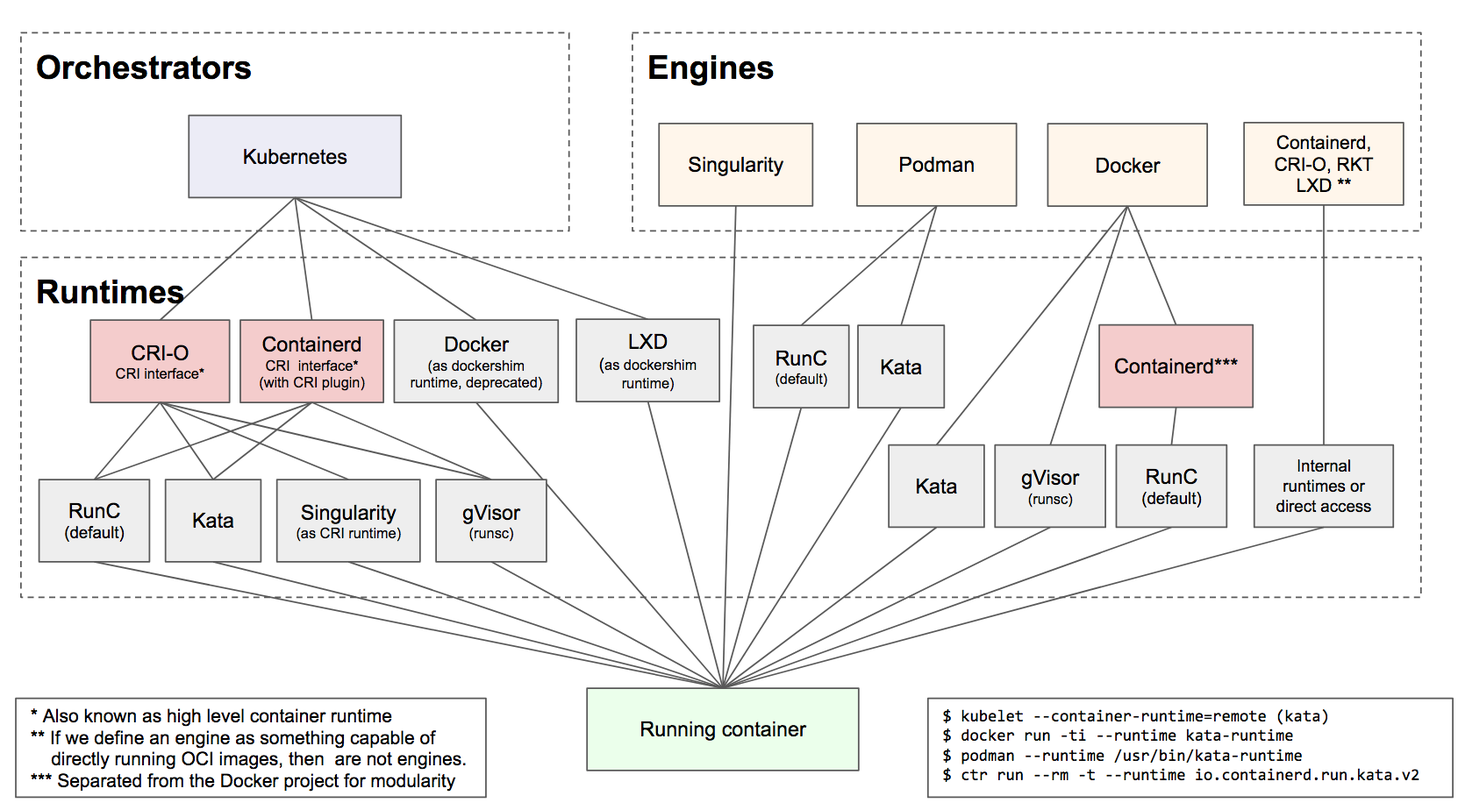
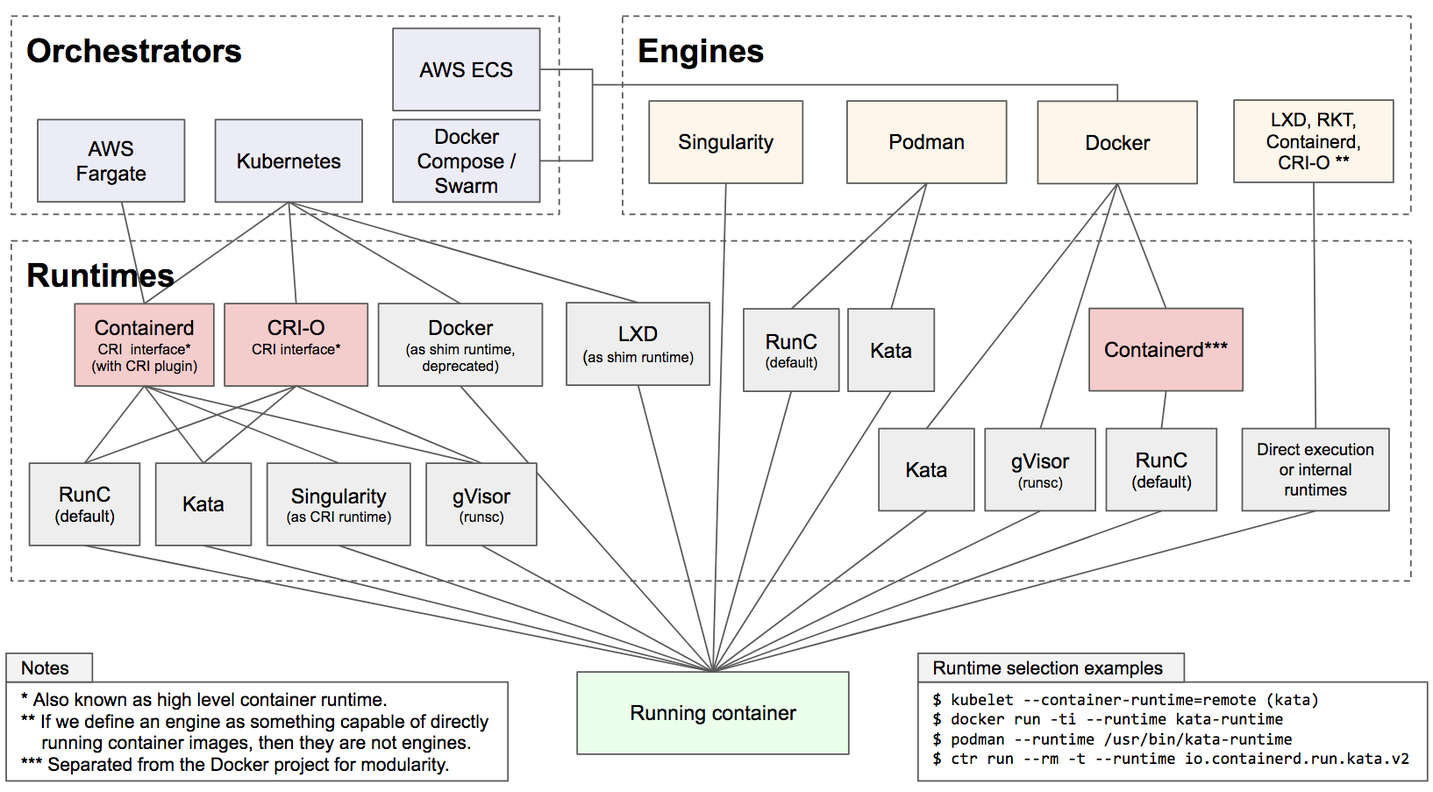
Updated containers blog article.

diff --git a/blog_container_orchestrators_engines_runtimes.html b/blog_container_orchestrators_engines_runtimes.html
@@ -68,7 +68,7 @@
         <div class="row">
           <div class="col-lg-12 text-center" style="padding-top:50px">
             <h3 class="section-heading" style="margin-top:20px; margin-bottom:20px">Container orchestrators, engines and runtimes: an overview</h3>
-            <h5 style="margin-bottom:30px">18 January 2022</h5>
+            <h5 style="margin-bottom:30px">7 February 2022</h5>
           </div>
         </div>
         <div class="row">
@@ -83,23 +83,37 @@
             
 
             <p>
-            Within the work I carried out ad INAF (the Italian National Institute for Astrophysics), where I developed a so called science plaform (<a href="https://www.ict.inaf.it/gitlab/exact/Rosetta">Rosetta</a>) to provide simplified access to complex computing and storage resourcer as HPC clusters and data-intensive systems, I had a chanche do deep dive in the container ecosystem.
+            As part of the work I am carrying out at INAF (the Italian National Institute for Astrophysics) on new approaches for data-intensive analysis, I am developing a so called <i>science platform</i>.
             </p>
-            <p>
-            The complexity is astonishing. And perhaprs as any complex technolgy simplified enough to get mass adoption, a lot of details are hid when you just run a <code>docker run hello-world</code> command.</p>
             
-            The schema below tries to summarize the situation as of today, and most importantly to clarify the relationships between the various moving parts.
+            <p>
+            The aim of such platforms is to provide simplified access to complex computing and storage resources, as HPC clusters and data-intensive systems, and to make it easy (and reproducible) to run scientific codes on them.
+            </p>
+            
+            <p>
+            The science platform we are developing at INAF (<a href="https://www.ict.inaf.it/gitlab/exact/Rosetta">Rosetta</a>) makes strong use of software containerisation to achieve this goal, and I therefore had the chance to take a deep dive in the container ecosystem.
+            </p>
+
+            <p>
+            The complexity is astonishing. And perhaps as any complex technology simplified enough to get mass adoption, a lot of details are hid when you just run a <code>docker run hello-world</code>.</p>
+            
+            The diagram below tries to summarise the situation as of today, and most importantly to clarify the relationships between the various moving parts.<br/><br/>
             
             <a href="imgs/containers.png"><img src="imgs/containers.png" width="100%"></a>
   
             <p>
             <br/>
-            A bunch of containers engines are not included, most notably 
-            <a href="https://nabla-containers.github.io">Nabla containers</a> and
-            <a href="https://github.com/NERSC/shifter">Shifter</a>.
+            Not all container orchestrators, engines and runtimes available as of today are included in this diagram nor discussed in this article, and most notably 
+            <a href="https://nabla-containers.github.io">Nabla</a>,
+            <a href="https://github.com/NERSC/shifter">Shifter</a>, <a href="https://www.nomadproject.io/">Nomad</a> and <a href="https://mesosphere.github.io/marathon/">Marathon</a> are not covered, but there should be enough of them to cover the various peculiarities in order to then generalise.</p>
             
-            Moreover, in the transition from standalone projects ad LXC/LCD and Docker to the open container initiative (OCI) standard, the terminology got even more convoluted, and the same components can behave as two different ones depending on how it is used. A set of definitions is therefore definitely required to navigate the ecosystem.
+            <p>
+            As it will be tried to explain over this article, in the transition from standalone, monolithic projects as LXC/LCD and Docker to the open container initiative (OCI) standards, the terminology got quite convoluted, and the same component can behave as two different ones, depending on how it is framed (e.g. an engine can became a runtime of another engine).
+            </p>
             
+            <p>
+            A set of definitions is therefore definitely required to navigate the ecosystem.
+            </p>
 
 
             <!-------------------> 
@@ -109,21 +123,20 @@
             <hr>        
             
             <ul>
-            <li>A container engine is a piece of software that accepts user requests, including command line options, pulls images, and from the end user's perspective runs the container [1]. 
+            <li>A <b><i>container engine</i></b> is a piece of software that accepts user requests, including command line options, pulls images, and from the end user's perspective runs the container [1]. 
             
-            <li>A container runtime is a software component which is in charge of managine the container lifecyle: configuring its environment, running it, stopping it, and so on. You can think about them as what's inside the engine (i.e valves and pistons). 
+            <li>A <b><i>container runtime</i></b> is a software component which is in charge of managing the container lifecycle: configuring its environment, running it, stopping it, and so on. You can think about them as what's inside the engine (i.e valves and pistons). 
             
-            Runtimes can be firther sub-divided in two types: hig lewel and low level.
+            Runtimes can be further sub-divided in two types: <i><b>high level</b></i>  and <i><b>low leve</b>l</i>.
             
             <ul style="margin-top:10px"> 
-            <li>high level container runtimes, or container runtime interfcaces (CRI). Following the engine analogy, you can think about them as the valves which in turn feeds the pistons.
-            <li>low level container runtimes, or CRI runtimes. You can think about them as the pistons which do the heavy lifting.
+            <li><b>high level</b> container runtimes, or container runtime interfaces (CRI). Following the engine analogy, you can think about them as the valves which in turn feeds the pistons.
+            <li><b>low level</b> container runtimes, or CRI runtimes. You can think about them as the pistons which do the heavy lifting.
             </ul>
-
             Also note that some engines can behave as runtimes and can be thus used from within other engines, or orchestrators.
 
 
-            <li>Lastly, a container orchestrator is a software in charghe of managing set of containers across different computing reosurces, handling network and storage configurations which are under the hood delegated to the container runtimes.
+            <li>Lastly, a <b><i>container orchestrator</i></b> is a software in charge of managing set of containers across different computing resources, handling network and storage configurations which are under the hood delegated to the container runtimes.
 
              
             </ul> 
@@ -131,10 +144,10 @@
             The general concept is thus as follows:
             </p>
             <p>
-            If you are running <b>single containers</b>, you will interact with a container engine, which in turn will interact with a container runtime. This leaving out the near-nonsense of engines that can behave as runtimes and thus used from within other engines, and that some engines have their runtime monolithically built-in, as Singularity.
+            If you are running <b><i>single containers</i></b>, you will interact with a <b>container engine</b>, which will in turn interact with a container runtime, either monolithically built-in or as a module. This leaving out the near-nonsense of engines that can behave as runtimes and that can thus be used from other engines.
             </p>
             <p>
-            If you are instead running <b>set of containers</b>, then you will use an orchestrator. Which one to use between Docker compose, Kubernetes, Docker swarm etc. depends on the use case and deployment complexity. Moreove, this is true if we leave out a new trend of building orchestrators on top of other orchestrators (i.e. Portainer), in which case the orchesrator will interact with another orchestrator.
+            If you are instead running <b><i>set of containers</i></b>, you will then use a <b>container orchestrator</b>. Which one to use will depend on the use case and deployment complexity. Moreover, this is true if we leave out a new trend of building orchestrators on top of other orchestrators (e.g. <a href="https://www.portainer.io/">Portainer</a>), in which case the orchestrator will interact with another orchestrator. Lastly, no one prevents you from using an orchestrator to run a set of containers with a single element, thus effectively running a single container, which is something you might want to do in particular in Cloud environments (e.g. in AWS ECS or Fargate).
             </p>
 
             <!-------------------> 
@@ -148,11 +161,11 @@
             <p>
             The container engine we all know.
             
-            Being a monoholitic project in the beginning, it has since then refactored to support both the need of an open source ecosystem and architectural flexibility. At different stages, the Docker GitHub repository was renamed in Mody and the internal, built-in runtime was extrapolated as Containerd.
+            Being a monolithic project in the beginning, it has since then refactored to support both the need of an open source ecosystem and architectural flexibility. At different stages, the Docker GitHub repository was renamed in Moby and the internal, built-in runtime was extrapolated as Containerd.
             </p>
             <p>
             
-            Docker identified indeed for a long time many things: a container engine, a runtimne, a registry, an image format, a project and.. a company. It is a normal part of software to get refactored, however with Docker and Kubernetes this generated a bit of confusion. As of today, the Docker Engine is to be intended as an open source software for Linux, while Docker Desktop is to be intended as the freemium product of the Docker, Inc. company for Mac and Windows platforms. From Docker's product page: "Docker Desktop includes Docker Engine, Docker CLI client, Docker Build/BuildKit, Docker Compose, Docker Content Trust, Kubernetes, Docker Scan, and Credential Helper". 
+            Docker identified indeed for a long time many things: a container engine, a runtime, a registry, an image format, a project and.. a company. It is a normal part of software projects to get refactored, however with Docker and Kubernetes this generated a bit of confusion. As of today, the Docker Engine is to be intended as an open source software for Linux, while Docker Desktop is to be intended as the freemium product of the Docker, Inc. company for Mac and Windows platforms. From Docker's product page: "Docker Desktop includes Docker Engine, Docker CLI client, Docker Build/BuildKit, Docker Compose, Docker Content Trust, Kubernetes, Docker Scan, and Credential Helper". 
             
             </p>
 
@@ -160,32 +173,38 @@
             <!--  Podman -->
             <h6 style="margin-top:20px">Podman</h6>
             <p>
-            Podman is a daemonless container engine for developing, managing, and running OCI Containers on your Linux System. Containers can either be run as root or in rootless mode. Podman is a near drop-in replacement for the Docker which can run container in <u>userspacea</u>.
+            Podman is a daemonless container engine for developing, managing, and running OCI Containers on your Linux System. Containers can either be run as root or in rootless mode. Podman is a near drop-in replacement for the Docker which can run container in <u>userspace</u>.
             
-            On shared sytems, it is probably the best possible tradeoff betwee usability and secutory, as it allows to operate both as root and standard user. Unlike other userspace container solutions, in Podman users can become root inside the container even if outside they are standard users, which makes it extremely powerful.
+            On shared systems, it is probably the best possible tradeoff between usability and security, as it allows to operate both as root and standard user. Unlike other userspace container solutions, in Podman users can become root inside the container even if outside they are standard users, which makes it extremely powerful.
             </p>
             <p>
             
-            Podman has a few issues with user IDs (UID) management when running when running in rootless mode and UIDs close to 65536. For example, to allow the advanced package tool (APT) to work on Debian/Ubuntu-based containers, its UID must be reassinged not to clash with some forbidden ones [4], e.g.: <code>groupadd -g 600 _apt</code> and <code>usermod -g 600 _apt</code>. Moreover, by default the user outside the container is mapped to root inside the container, and non-root user mapped to to other UIDs [5]. Take home message: a terrific piece of software, but beware UIDs.
+            Podman has a few issues with user IDs (UID) management when running when running in rootless mode and UIDs close to 65536. For example, to allow the advanced package tool (APT) to work on Debian/Ubuntu-based containers, its UID must be reassigned not to clash with some forbidden ones [4], e.g.: <code>groupadd -g 600 _apt</code> and <code>usermod -g 600 _apt</code>. Moreover, by default the user outside the container is mapped to root inside the container, and non-root user mapped to to other UIDs [5]. Take home message: a terrific piece of software, but beware UIDs.
             </p>
 
 
             <!--  Singularity -->
             <h6 style="margin-top:20px">Singularity</h6>
             <p>
-            Singularity (now Apptainer, because of you know... forks) is perhaps one of the worse container engine implementations around. It is actually to be thought of more as an environment than as a container engine. Its main problem is indeed that it does not enforce isolation between the containers and the host, levaing large portions exposed. This is not only a secutiry issue but most importantly it makes the container behavioiur susceptible of being affected by the host environmnent.
+            Singularity (now Apptainer, because of you know... forks) is perhaps one of the worse container engine implementations around. It is actually to be thought more of a virtual environment than as a container engine. Its main problem is indeed that it does not enforce (or even permit) robust isolation between the containers and the host, leaving large portions exposed. This is not only a security issue but most importantly it makes the container behaviour susceptible of being affected by the external environments. In the shipping container analogy, you can think about Singularty containers as if they have no walls. 
             
             <p>
-            Directories as the <code>/home</code> folder, <code>/tmp</code>, <code>/proc</code>, <code>/sys</code>, and <code>/dev</code> are all shared with the host, environment variables are exported as they are set on host, the PID namespace is not created from scratch, and the network and sockets are as well shared with the host.  Moreover, Singularity maps the user outside the continer as the same user inside it, meaning that every time a contaier is run the user UID (and name) will change inside it, making it very hard to handle permissions.
+            More in details, directories as the <code>/home</code> folder, <code>/tmp</code>, <code>/proc</code>, <code>/sys</code>, and <code>/dev</code> are all shared with the host, environment variables are exported as they are set on host, the PID namespace is not created from scratch, and the network and sockets are as well shared with the host.  Moreover, Singularity maps the user outside the container as the same user inside it, meaning that every time a container is run the user UID (and name) can change inside it, making it very hard to handle permissions.
             </p>
             
-            <p>Two issues opened on the former Singularity project are quite self-explainatory: <a href="https://github.com/apptainer/singularity/issues/476">Same container, different results</a> and <a href="https://github.com/apptainer/singularity/issues/3484">Python3 script fails in singularity container on one machine, but works in same container on another</a>. In both cases the iusse was due to lack between isolation between the container and the host.
+            <p>Two issues opened on the former Singularity project are quite self-explanatory: <a href="https://github.com/apptainer/singularity/issues/476">Same container, different results</a> and <a href="https://github.com/apptainer/singularity/issues/3484">Python3 script fails in singularity container on one machine, but works in same container on another</a>. In both cases the issue was due to lack of isolation between the container and the host.
             </p>
             <p>
-            Singularity is perhaps one of the most evident symphthoms of the "not invented here" syndrome in the HPC world, and after having to deal with it for more than two years, I am now officialy saying it out loud: stay away from it, unless you really have to.
+            Singularity is perhaps one of the most evident symptoms of the "not invented here" syndrome in the HPC world, and after having to deal with it for more than two years, I am now officially saying it out loud: stay away from it, unless you really have to.
             </p>
 
 
+            <!--  LXD etc. -->
+            <h6 style="margin-top:20px">LXD, RKD, Containerd, CRI-O</h6>
+            <p>
+            These are not exactly engines, and in particular if the definition fo an engine is something capable of directly running container images (from a user prospective), then they are definitely not. However, with a few caveats (as the Containerd CLI runtime, <code>ctr</code>) they can be used as engines too, and I thought it was worth to include them in the schema as engines to underline how potentially nearly everything can be framed as everything. The take home message is: beware definitions in the container ecosystems, they are kind of mutable.
+ 
+            </p>
 
             <!-------------------> 
             <!--  Runtimes (HL) -->
@@ -194,15 +213,15 @@
             <hr>
             
             <!-- Containerd -->
-            <h6 style="margin-top:20px">runC</h6>
+            <h6 style="margin-top:20px">Containerd</h6>
             <p>
-            Containerd is an high-level container originated from Docker, and decoupled for flexibility over the years. A defualt Docker engine installation will install containerd as well. Containerd is also the default Kubernetes runtime. Containerd uses runC as its default low-level runtime.
+            Containerd is an high-level container originated from Docker, and decoupled for flexibility over the years. A default Docker engine installation will install containerd as well. Containerd is also the default Kubernetes runtime. Containerd uses runC as its default low-level runtime.
             </p>
 
             <!-- CRI-O -->
             <h6 style="margin-top:20px">CRI-O</h6>
             <p>
-            CRI-O is an "implementation of the Kubernetes CRI (Container Runtime Interface) to enable using OCI (Open Container Initiative) compatible runtimes". It basically tried to fill some gaps along the Kubernetes devlopment as is now a direct competitor (if it makes sense to call it as such) to Containerd. CRI-O uses runC as its default low-level runtime as well.
+            CRI-O is an "implementation of the Kubernetes CRI (Container Runtime Interface) to enable using OCI (Open Container Initiative) compatible runtimes" [6]. It basically tried to fill some gaps along the Kubernetes devlopment as is now a direct competitor (if it makes sense to call it as such) to Containerd. CRI-O uses runC as its default low-level runtime as well.
             </p>
 
             <!-------------------> 
@@ -214,19 +233,19 @@
             <!-- runC -->
             <h6 style="margin-top:20px">runC</h6>
             <p>
-            RunC is an OCI-compatible container runtime. It implements the OCI specification and runs the container processes. RunC is called the <i>reference implementation</i> of OCI. [6]
+            RunC is an OCI-compatible container runtime. It implements the OCI specification and runs the container processes. RunC is called the <i>reference implementation</i> of OCI [7]. 
             </p>
 
             <!-- gVisor -->
             <h6 style="margin-top:20px">gVisor</h6>
             <p>
-            gVisor is a runtime developed by Google which implements kernel virtualization. In other words, each container has its own kernel, unlinke other container runtimes where the kernel is usually shared between the host and the containers. It allows for more security than other runtimes while allowing to share host resources wihtout pre-allocation.
+            gVisor is a runtime developed by Google which implements kernel virtualisation. In other words, each container has its own kernel, unlike other container runtimes where the kernel is usually shared between the host and the containers. It allows for more security than other runtimes while allowing to share host resources without pre-allocation.
             </p>
 
             <!-- Kata -->
             <h6 style="margin-top:20px">Kata</h6>
             <p>
-            Kata containers is a runtime implementing hardware virtualization (aka: a virtual machine). The idea is to have a runtime which behave as running software cointainers but that under the hood spawn a new virtual machine and run the container inside it. It is very interesting in terms of security and hardware emulation for multi-architecture tests. On the cons side, it requires pre-allocation of resources, and in parituclar of the memory which is set by default to 2GB per container.
+            Kata containers is a runtime implementing hardware virtualisation (aka: a virtual machine). The idea is to have a runtime which behave as running software containers but that under the hood spawn a new virtual machine and run the container inside it. It is very interesting in terms of security and hardware emulation for multi-architecture tests. On the cons side, it requires pre-allocation of resources, and in particular of the memory which is set by default to 2GB per container.
             </p>       
 
 
@@ -239,7 +258,7 @@
             <!--  Docker Compose -->
             <h6 style="margin-top:20px">Docker compose</h6>
             <p>
-            Docker compose allows to define simple multi-service applications where all the containers run on the same node. It creates a dedicated network for the containers on the host from which they can all talk each others, and a <code>docker-compose.yml</code> file describes hotw to assemble them. It the simplest orchestrator, and very useful for local and simple deployments. Docker compose has support only for the Docker APIs, and Podamn can work with it by emulating Docker. <i>Warning</i>: Docker compose does not talk with a generic runtime but directly with the Docker engine, and is thus not exactly an orchestrator.
+            Docker compose allows to define simple multi-service applications where all the containers run on the same node. It creates a dedicated network for the containers on the host from which they can all talk each others, and a <code>docker-compose.yml</code> file describes how to assemble them. It the simplest orchestrator, and very useful for local and simple deployments. Docker compose has support only for the Docker APIs, and Podman can work with it by emulating Docker. <i>Warning</i>: Docker compose does not talk with a generic runtime but directly with the Docker engine, and is thus not exactly an orchestrator.
             </p>       
 
 
@@ -256,6 +275,50 @@
             Kubernetes is the full-featured container orchestrators, supporting a variety of settings, network topologies and container runtimes. In 2021 it dropped support for Docker, which generated some panick over the internet. What it actually happend is that it dropped support for Dockershim, and nothing changed for the users. Kubernetes adds the notion of "pod" to the container ecosystem, and can support multiple container runtimes by defining pods with different settings. Mastreing Kubernetes is hard, and even an entry-level setup can take time. Kubernetes can be accessed both using a CLI and a set of REST APIs.
             </p>
             
+            
+            <!--  AWS ECS -->
+            <h6 style="margin-top:20px">AWS ECS</h6>
+            <p>
+            Amazon Web Services's Elastic Compute Service is Amazon's internal implementation of a Kubernet-like solution. Amazon virtual machines  require the Docker Engine to be installed in order to be managed using ECS [9]. Alternatively, customers can directly use a virtual machine image pre-build by Amazon which is already configured for using it with ECS. The main point is that AWS ECS use the Docker engine, and not a container runtime.
+            </p>     
+            
+
+            <!--  AWS Fargate -->
+            <h6 style="margin-top:20px">AWS Fargate</h6>
+            <p>
+            AWS Fargate is likely one of these "definitive" solutions that will become the new normal for a large number of use cases (as it happened with RDS). Fargate allow executing containers in a serverless fashion, on AWS computing infrastructure, and to entirely forget about the underlying OS (and hardware, of course). Interestingly enough, by probably being a project younger than ECS, it could make the strategic move of stopping to rely on container engines in favour of adopting container runtimes. In particular, with Fargate platform version 1.4 in April 2020, they replaced the Docker Engine with Containerd as Fargate’s container execution engine [10].
+            </p>            
+            
+            
+
+
+            <!-------------------> 
+            <!--  Conclusions  -->
+            <!------------------->   
+            <h5 style="margin-top:60px">Conclusions</h5>
+            <hr>
+            <p>
+            The container ecosystem is moving fast. After Docker, intended both as a company and as a technology, enabled mass adoption of containerisation back in 2013 a lot changed, in particular over the last years.
+            </p>
+            <p>
+            The need of decoupling the internal components of early container engines came out only when container orchestrators started to require more flexibility on how to run containers (as it happened for Kubernetes and Docker itself, which stemmed out the Containerd runtime).
+            <p>
+            The Open Container Initiative born along the way is trying to give standard and well-defined formats and interfaces, however the entanglement of Docker within other technologies and services is still very strong and causes confusion.
+            </p>
+            
+            <p>
+            Newer or well maintained projects have it easier from this prospective, as Kubernetes or Amazon Fargate, since they can just stop supporting Docker as an engine and move altogether to container runtimes (as Docker-derived Containerd, which provides strong back-compatibility in the transition). This approach allows to easily plug-in other runtimes as well, and thus to support more usage scenarios, as for example improving security with kernel or hardware level virtualisation using gVisor or Kata runtimes. 
+            </p>
+            
+            <p>
+            As a general comment, we will probably still have to live with this confusion for a while, but the path is set.
+            
+            I hope that this article will be useful for anyone who find himself lost in today's container ecosystem complexity and in particular in contextualising some technical details which are more there for historical and refactoring reasons than for explicit architectural choices. 
+            </p>
+
+            <p>
+            <font color="darkgray"><i>p.s. Have I missed something? Any feedback is welcome! My contact details are in the footer.</i></font>
+            </p>
 
 
             <!-------------------> 
@@ -276,10 +339,16 @@
 
             <li><a href="https://www.redhat.com/sysadmin/rootless-podman-makes-sense">https://www.redhat.com/sysadmin/rootless-podman-makes-sense</a>
 
+            <li><a href="https://catalog.redhat.com/software/containers/openshift3/cri-o/5a15da195a13466f423e6ef6">https://catalog.redhat.com/software/containers/openshift3/cri-o/5a15da195a13466f423e6ef6</a>
+
             <li><a href="https://www.tutorialworks.com/difference-docker-containerd-runc-crio-oci/">https://www.tutorialworks.com/difference-docker-containerd-runc-crio-oci/</a>
 
-            
             <li><a href="https://computingforgeeks.com/docker-vs-cri-o-vs-containerd/">https://computingforgeeks.com/docker-vs-cri-o-vs-containerd/</a>
+            
+            <li><a href="https://docs.aws.amazon.com/AmazonECS/latest/developerguide/ecs-agent-install.html">https://docs.aws.amazon.com/AmazonECS/latest/developerguide/ecs-agent-install.html</a>
+            
+            
+            <li><a href="https://aws.amazon.com/blogs/containers/under-the-hood-fargate-data-plane/">https://aws.amazon.com/blogs/containers/under-the-hood-fargate-data-plane/</a>
             
             
             </ol>
